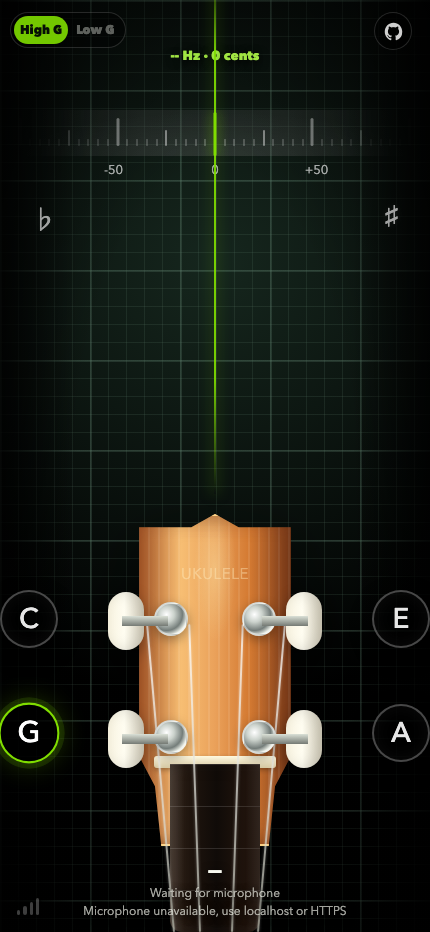
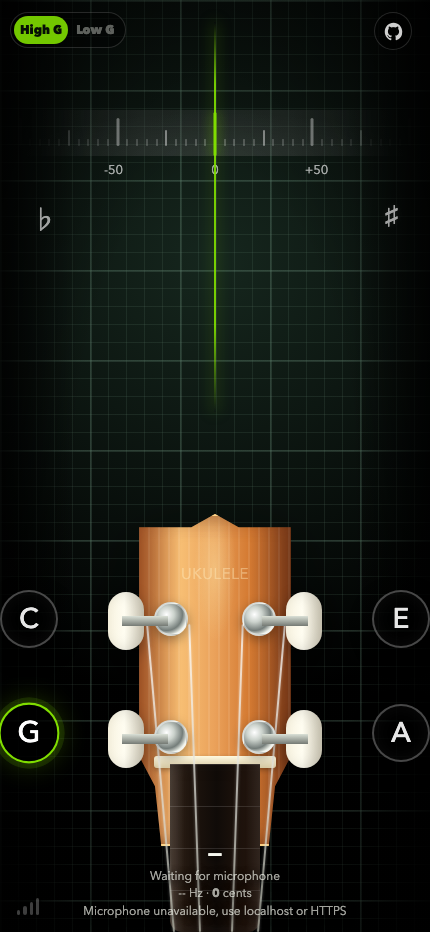
Move pitch readout to bottom

Changed region(s): [[0.3326, 0.9024, 0.6651, 0.9646], [0.4233, 0.0, 0.6047, 0.0933], [0.4837, 0.3734, 0.514, 0.4979]]

diff --git a/index.html b/index.html
@@ -175,8 +175,8 @@
 
     .center-line {
       position: absolute;
-      top: -70px;
-      bottom: -210px;
+      top: -16px;
+      height: 390px;
       left: 50%;
       width: 2px;
       transform: translateX(-50%);
@@ -204,18 +204,39 @@
       position: absolute;
       left: 50%;
       top: -62px;
-      width: 150px;
-      padding: 0 8px;
+      width: 28px;
+      height: 28px;
       transform: translateX(-50%);
-      transition: left 70ms ease-out, color 110ms ease;
-      text-align: center;
-      color: color-mix(in srgb, var(--needle-color) 72%, var(--white));
-      font-size: 13px;
-      font-weight: 800;
-      line-height: 1.35;
+      transition: left 70ms ease-out, opacity 110ms ease;
       z-index: 8;
       pointer-events: none;
-      text-shadow: 0 2px 10px rgba(0, 0, 0, 0.88);
+      opacity: 0;
+    }
+
+    .readout::before {
+      content: "";
+      position: absolute;
+      inset: 0;
+      border-radius: 50%;
+      background: color-mix(in srgb, var(--needle-color) 82%, rgba(0, 0, 0, 0.45));
+      box-shadow: 0 0 14px color-mix(in srgb, var(--needle-color) 62%, transparent);
+      transform: translateX(-22px);
+    }
+
+    .readout::after {
+      content: "";
+      position: absolute;
+      left: 5px;
+      top: 7px;
+      width: 14px;
+      height: 8px;
+      border-left: 3px solid #061004;
+      border-bottom: 3px solid #061004;
+      transform: translateX(-22px) rotate(-45deg);
+    }
+
+    .readout.in-tune {
+      opacity: 1;
     }
 
     .bottom-panel {
@@ -589,8 +610,8 @@
       }
 
       .center-line {
-        top: -92px;
-        bottom: -148px;
+        top: 32px;
+        height: 440px;
       }
 
       .flat,
@@ -603,9 +624,7 @@
       .sharp { right: 44px; }
 
       .readout {
-        top: 96px;
-        width: 170px;
-        font-size: 14px;
+        top: 112px;
       }
 
       .bottom-panel {
@@ -721,9 +740,7 @@
       <section class="meter-zone" aria-live="polite">
         <div class="center-line" id="needle" aria-hidden="true"></div>
         <div class="tuner-scale" aria-hidden="true">
-          <div class="readout">
-            <span id="freqText">-- Hz</span> · <span><b id="centsText">0</b> cents</span>
-          </div>
+          <div class="readout" id="tuneIcon"></div>
           <div class="scale-ticks" id="scaleTicks"></div>
           <div class="scale-labels">
             <span style="left: 25%">-50</span>
@@ -777,6 +794,7 @@
         <div class="bottom-status">
           <strong id="noteName">—</strong>
           <span id="targetText">Waiting for microphone</span><br />
+          <span id="freqText">-- Hz</span> · <span><b id="centsText">0</b> cents</span><br />
           <span id="direction">Play an open string</span>
         </div>
       </section>
@@ -814,6 +832,7 @@
     const direction = document.querySelector('#direction');
     const needle = document.querySelector('#needle');
     const readout = document.querySelector('.readout');
+    const tuneIcon = document.querySelector('#tuneIcon');
     const levelBars = [...document.querySelectorAll('.volume-signal span')];
     const gFreq = document.querySelector('#gFreq');
     const stringCards = [...document.querySelectorAll('.note-button')];
@@ -912,6 +931,7 @@
 
     function clearPointerState() {
       setPointer(50, 'var(--green)');
+      tuneIcon.classList.remove('in-tune');
       clearTickHighlight();
     }
 
@@ -962,6 +982,7 @@
       freqText.textContent = `${frequency.toFixed(2)} Hz`;
       centsText.textContent = `${cents > 0 ? '+' : ''}${cents.toFixed(1)}`;
       setPointer(pointerPosition, pointerColor);
+      tuneIcon.classList.toggle('in-tune', isInTune);
       highlightTick(limited);
       lastGoodPitchAt = performance.now();
 
